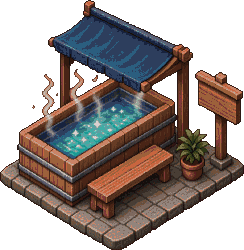
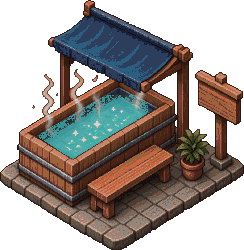
Soften shadows, fix footbath water & sitting pose, and remove in-field stream

Changed region(s): [[0.1434, 0.364, 0.6311, 0.644], [0.373, 0.532, 0.459, 0.588], [0.459, 0.588, 0.4877, 0.616]]

diff --git a/game.js b/game.js
@@ -199,24 +199,13 @@ function buildGround(){
  const W=N*TW+8,H=N*TH+40;ground=mk(W*2,H*2);const g=ground.getContext('2d');g.scale(2,2);const ox=N*TW/2+4;
  const pathMap={};S.objs.forEach(o=>{if(DEF[o.k].isPath)pathMap[o.x+','+o.y]=o.k});
  const near=new Set();for(const o of S.objs){const d=DEF[o.k],[fw,fh]=fpOf(o.k,o.rot);if(fw*fh>=4&&!d.tree&&o.k!='rocks'&&o.k!='iris'&&o.k!='floating_lanterns')for(let x=o.x-1;x<=o.x+fw;x++)for(let y=o.y-1;y<=o.y+fh;y++)near.add(x+','+y)}
- // 열린 구역 경계 계산 -> 전면(남서/남동) 외곽을 따라 흐르는 에메랄드/터콰이즈 계곡 온천천 & 목조 다리
- let minX=N,maxX=0,minY=N,maxY=0;
- for(let py=0;py<N/PS;py++)for(let px=0;px<N/PS;px++)if(plotOpen(px,py)){minX=Math.min(minX,px*PS);maxX=Math.max(maxX,(px+1)*PS-1);minY=Math.min(minY,py*PS);maxY=Math.max(maxY,(py+1)*PS-1)}
- const gi=gateInfo();
- const brgSet=new Set(),brgBank=new Set();
- if(gi){const[mx,my]=gi.m,[ox_,oy_]=gi.o;for(let s=1;s<=6;s++)for(let w=-1;w<=1;w++){const bx=mx+ox_*s+(oy_?w:0),by=my+oy_*s+(ox_?w:0);if(s>=2&&s<=5)brgSet.add(bx+','+by);else brgBank.add(bx+','+by)}}
- const isRiv=(x,y)=>{if(tileOpen(x,y))return false;const dx=minX-x,dy=y-maxY;const sw=dx>=2&&dx<=5&&y>=minY-2&&y<=maxY+5;const se=dy>=2&&dy<=5&&x>=minX-5&&x<=maxX+2;return sw||se};
- const isBank=(x,y)=>{if(tileOpen(x,y)||isRiv(x,y))return false;const dx=minX-x,dy=y-maxY;return(dx==1&&y>=minY-2&&y<=maxY+6)||(dy==1&&x>=minX-6&&x<=maxX+2)||(dx==6&&y>=minY-1&&y<=maxY+6)||(dy==6&&x>=minX-6&&x<=maxX+1)};
- const rivTiles=[];
  for(let y=0;y<N;y++)for(let x=0;x<N;x++){
   const[ix,iy]=iso(x,y);const X=ox+ix,Y=iy;
   const key=x+','+y,pk=pathMap[key],cob=!pk&&near.has(key);
-  const riv=isRiv(x,y),brg=riv&&brgSet.has(key),bnk=isBank(x,y)||brgBank.has(key);
-  const ty=pk||(brg?'path_wood':riv?'river':bnk?'bank':cob?1:0);
+  const ty=pk||(cob?1:0);
   const tmp=tileTex(ty,(x*7+y*13)%12,(x+y)%2);g.drawImage(tmp,X-TW/2,Y,TW,TH);
-  if(riv)rivTiles.push([x,y,brg?1:0]);
-  if(pk||brgBank.has(key)){ // 오토타일: 돌길·데크길의 따뜻한 크림 하이라이트 & 인디고 그림자 단차
-   const tk=pk||'path';
+  if(pk){ // 오토타일: 돌길·데크길의 따뜻한 크림 하이라이트 & 인디고 그림자 단차
+   const tk=pk;
    const T=[X,Y],R=[X+TW/2,Y+TH/2],B=[X,Y+TH],L=[X-TW/2,Y+TH/2];
    const ed={path:'#52465c',path_wood:'#3e2d40',path_gravel:'#685c6e',path_tatami:'#43522c'}[tk]||'#52465c';
    const hi={path:'#fff4c8',path_wood:'#f7cf92',path_gravel:'#faecc0',path_tatami:'#dce298'}[tk]||'#fff4c8';
@@ -226,61 +215,10 @@ function buildGround(){
     g.lineWidth=0.8;g.strokeStyle=sun?hi:ed;g.beginPath();g.moveTo(...a);g.lineTo(...b);g.stroke()}
   }
  }
- // 에메랄드/터콰이즈 강물 디테일: 호안 크림색 바위, 깊은 청록 물그림자, 수련 잎, 목조 다리 난간과 교각 그림자
- for(const[x,y,brg]of rivTiles){
-  const[ix,iy]=iso(x,y),X=ox+ix,Y=iy,r=rng(x*3137+y*997+19);
-  const upL=!isRiv(x-1,y),upR=!isRiv(x,y-1),dnL=!isRiv(x,y+1),dnR=!isRiv(x+1,y);
-  // 위쪽 강변 깊은 청록-인디고 물그림자 (#165872)
-  if(upL||upR){
-   g.fillStyle='rgba(20,76,102,0.68)';g.beginPath();
-   g.moveTo(X,Y);g.lineTo(X+TW/2,Y+TH/2);g.lineTo(X,Y+TH*0.58);g.lineTo(X-TW/2,Y+TH/2);g.closePath();g.fill();
-  }
-  // 호안 바위 단차 (햇살 받은 크림-골드 상판 #fff2c4 / #edd092 + 인디고-슬레이트 그림자 측면 #463c56)
-  const drawBankStones=(ax,ay,bx,by,sh)=>{
-   for(let i=0;i<3;i++){const t0=(i+0.15)/3,t1=(i+0.88)/3,tm=(t0+t1)/2;
-    const sx=ax+(bx-ax)*tm,sy=ay+(by-ay)*tm,sw=3.2+(i%2)*0.9,shh=1.9;
-    // 수면 반사/잠긴 그림자
-    g.fillStyle='#144e68';g.fillRect(sx-sw,sy+0.8,sw*2,2.2);
-    // 바위 그늘진 아랫면 (인디고 슬레이트)
-    g.fillStyle=sh?'#3e364e':'#4e445e';g.beginPath();g.ellipse(sx,sy+0.2,sw,shh,0,0,6.283);g.fill();
-    // 바위 햇살 받은 윗면 (버터 크림-샌드)
-    g.fillStyle=i%2?'#fae5a8':'#fff3c6';g.beginPath();g.ellipse(sx-0.3,sy-0.7,sw*0.85,shh*0.72,0,0,6.283);g.fill();
-   }
-  };
-  if(upL&&!brg)drawBankStones(X-TW/2,Y+TH/2,X,Y,false);
-  if(upR&&!brg)drawBankStones(X,Y,X+TW/2,Y+TH/2,true);
-  if(dnL&&!brg)drawBankStones(X-TW/2,Y+TH/2,X,Y+TH,true);
-  if(dnR&&!brg)drawBankStones(X,Y+TH,X+TW/2,Y+TH/2,false);
-  if(brg){
-   // 레퍼런스 이미지의 목조 다리: 물에 비친 짙은 인디고 교각·그림자 + 따뜻한 허니-오크 널빤지 + 난간
-   g.fillStyle='rgba(26,38,68,0.52)';g.beginPath();g.moveTo(X-TW*0.45,Y+TH*0.55);g.lineTo(X,Y+TH*1.08);g.lineTo(X+TW*0.45,Y+TH*0.55);g.lineTo(X,Y+TH*0.18);g.closePath();g.fill();
-   // 교각 기둥 (#28233c)
-   if((x+y)%2==0){g.fillStyle='#28233c';g.fillRect(X-TW*0.32,Y+TH*0.48,2.2,5.5);g.fillRect(X+TW*0.24,Y+TH*0.48,2.2,5.5)}
-   // 다리 상판 가장자리 햇살 림 & 난간
-   g.strokeStyle='#ffefc0';g.lineWidth=1.1;g.beginPath();g.moveTo(X-TW*0.46,Y+TH*0.46);g.lineTo(X,Y+0.4);g.lineTo(X+TW*0.46,Y+TH*0.46);g.stroke();
-  }else{
-   // 수련 잎 클러스터 (#9ad658 / #def484) & 물결 하이라이트 (#aaf2ea / #eef9c8)
-   if(r()<0.42){
-    const nP=1+(r()*3|0);
-    for(let k=0;k<nP;k++){
-     const px=X+(r()-0.5)*TW*0.46,py=Y+TH*0.25+r()*TH*0.5,ps=1.4+r()*1.2;
-     g.fillStyle='rgba(18,74,94,0.48)';g.beginPath();g.ellipse(px+0.4,py+0.6,ps,ps*0.52,0,0,6.283);g.fill();
-     g.fillStyle=k%2?'#88c84e':'#a8de62';g.beginPath();g.ellipse(px,py,ps,ps*0.5,0,0.4,6.1);g.lineTo(px,py);g.fill();
-     g.fillStyle='#def688';g.fillRect(px-ps*0.5,py-0.3,ps*0.7,0.5);
-     if(k==0&&r()<0.35){g.fillStyle='#fff5c0';g.fillRect(px-0.4,py-0.9,1.1,0.9)}
-    }
-   }
-   if(r()<0.55){
-    const rx_=X+(r()-0.5)*TW*0.4,ry_=Y+TH*0.28+r()*TH*0.44;
-    g.fillStyle=r()<0.5?'rgba(170,246,238,0.65)':'rgba(240,250,200,0.65)';
-    g.fillRect(rx_-2,ry_,3.5+r()*2.5,0.7);
-   }
-  }
- }
- window._rivTiles=rivTiles;
+ window._rivTiles=[];
  // 잔디 음영 패치: 레퍼런스 톤의 깊은 인디고-포레스트 그늘과 따뜻한 햇살 풀빛
  {const r=rng(777);g.save();g.beginPath();g.moveTo(ox,0);g.lineTo(ox+N*TW/2,N*TH/2);g.lineTo(ox,N*TH);g.lineTo(ox-N*TW/2,N*TH/2);g.clip();
-  for(let i=0;i<55;i++){const tx=r()*N,ty=r()*N;if(isRiv(tx|0,ty|0))continue;const[ix,iy]=iso(tx,ty);const R=26+r()*55;const dk=r()<0.52;const gr=g.createRadialGradient(ox+ix,iy,0,ox+ix,iy,R);gr.addColorStop(0,dk?'rgba(32,48,58,0.16)':'rgba(190,214,96,0.11)');gr.addColorStop(1,'rgba(0,0,0,0)');g.fillStyle=gr;g.save();g.translate(ox+ix,iy);g.scale(1,0.5);g.translate(-ox-ix,-iy);g.fillRect(ox+ix-R,iy-R,R*2,R*2);g.restore()}g.restore()}
+  for(let i=0;i<55;i++){const tx=r()*N,ty=r()*N;const[ix,iy]=iso(tx,ty);const R=26+r()*55;const dk=r()<0.52;const gr=g.createRadialGradient(ox+ix,iy,0,ox+ix,iy,R);gr.addColorStop(0,dk?'rgba(32,48,58,0.16)':'rgba(190,214,96,0.11)');gr.addColorStop(1,'rgba(0,0,0,0)');g.fillStyle=gr;g.save();g.translate(ox+ix,iy);g.scale(1,0.5);g.translate(-ox-ix,-iy);g.fillRect(ox+ix-R,iy-R,R*2,R*2);g.restore()}g.restore()}
  BUS.emit('groundCache',g,ox);
  groundDirty=false;
 }
@@ -452,7 +390,15 @@ const SEATS={hinoki:[[-0.36,-0.22],[0.36,0.12]],sauna:[[-0.4,-0.3],[0.38,-0.28],
  rock:[[-0.1,-0.7],[0.45,-0.5],[-0.62,-0.3],[0.05,-0.18],[0.7,0.0],[-0.5,0.22],[0.3,0.35],[-0.08,0.6]],
  milky:[[0,-0.62],[-0.3,-0.32],[0.3,-0.32],[-0.6,0],[0,-0.02],[0.6,0],[-0.3,0.3],[0.3,0.3],[0,0.6],[-0.15,0.15],[0.15,-0.17],[0.45,0.15]]};
 function capOf(o){const d=DEF[o.k];const c=d.cap+(o.lv-1)*(d.bath&&d.fp>=4?2:1);return SEATS[o.k]?Math.min(c,SEATS[o.k].length):c}
-function bathSlot(o,i){const W=wgeo(o),st=SEATS[o.k];let u,v;if(st){[u,v]=st[i%st.length];if(o.rot&1)u=-u}else{const n=capOf(o),a=(i/n)*Math.PI*2+0.6;u=Math.cos(a)*0.6;v=Math.sin(a)*0.6;if(o.rot&1)u=-u}
+const FOOT_SEATS={
+ 1:[[0.64,0.38],[0.56,0.44],[0.48,0.50],[0.40,0.56],[0.60,0.41],[0.52,0.47],[0.44,0.53],[0.36,0.59]],
+ 2:[[0.58,0.53],[0.51,0.57],[0.44,0.61],[0.37,0.65],[0.55,0.55],[0.48,0.59],[0.41,0.63],[0.34,0.67]],
+ 3:[[0.46,0.58],[0.52,0.60],[0.58,0.62],[0.64,0.64],[0.49,0.59],[0.55,0.61],[0.61,0.63],[0.43,0.57]],
+ 4:[[0.46,0.58],[0.52,0.60],[0.58,0.62],[0.64,0.64],[0.49,0.59],[0.55,0.61],[0.61,0.63],[0.43,0.57]],
+ 5:[[0.46,0.58],[0.52,0.60],[0.58,0.62],[0.64,0.64],[0.49,0.59],[0.55,0.61],[0.61,0.63],[0.43,0.57]]
+};
+function bathSlot(o,i){if(o.k=='foot'){const G=objGeom(o),lv=Math.min(5,Math.max(1,o.lv||1)),fs=FOOT_SEATS[lv];let[u,v]=fs[i%fs.length];if(o.rot&1)u=1-u;const X=G.X+(u-0.5)*G.W,Y=G.Y-G.H+v*G.H;return[(X/(TW/2)+Y/(TH/2))/2,(Y/(TH/2)-X/(TW/2))/2]}
+ const W=wgeo(o),st=SEATS[o.k];let u,v;if(st){[u,v]=st[i%st.length];if(o.rot&1)u=-u}else{const n=capOf(o),a=(i/n)*Math.PI*2+0.6;u=Math.cos(a)*0.6;v=Math.sin(a)*0.6;if(o.rot&1)u=-u}
  const sp=W.dia?0.9:0.85;const X=W.cX+u*W.rx*sp,Y=W.cY+v*W.ry*sp+2;return[(X/(TW/2)+Y/(TH/2))/2,(Y/(TH/2)-X/(TW/2))/2]}
 function bathClip(o){const W=wgeo(o);const{cX,cY,rx,ry}=W;cx.beginPath();if(W.dia){cx.moveTo(cX+rx,cY);cx.lineTo(cX,cY+ry);cx.lineTo(cX-rx,cY)}else{cx.moveTo(cX+rx,cY-1);cx.ellipse(cX,cY-1,rx,ry,0,0,Math.PI)}cx.lineTo(cX-rx,cY-40);cx.lineTo(cX+rx,cY-40);cx.lineTo(cX+rx,cY);cx.closePath();cx.clip()}
 function updGuest(g,dt){
@@ -541,11 +487,11 @@ function drawSprite(key,o,X,Y,W,lt,sv,alpha){ // X,Y: 바닥 중앙(월드), W: 
  if(v.m)cx.restore();cx.globalAlpha=1;return h}
 const WSIL={};function whiteSil(key,v){if(WSIL[key])return WSIL[key];const c=document.createElement('canvas');c.width=v.base.width;c.height=v.base.height;const g=c.getContext('2d');g.drawImage(v.base,0,0);g.globalCompositeOperation='source-in';g.fillStyle='#fff6d8';g.fillRect(0,0,c.width,c.height);return WSIL[key]=c}
 function drawShadow(key,X,Y,W,lt,sv,str){const v=VAR[key];if(!v||lt.sun<0.1)return;const h=W*v.base.height/v.base.width;if(offscreen(X,Y+h,W*2,h*2))return;
- cx.save();cx.globalAlpha=(0.42*lt.sun+0.12*(1-lt.sun))*(str||1);cx.translate(X,Y);cx.transform(1,0,-sv.kx,sv.ky,0,0);if(v.m)cx.scale(-1,1);cx.drawImage(v.sil,-W/2,-h,W,h);cx.restore()}
+ cx.save();cx.globalAlpha=(0.19*lt.sun+0.05*(1-lt.sun))*(str||1);cx.translate(X,Y);cx.transform(1,0,-sv.kx,sv.ky,0,0);if(v.m)cx.scale(-1,1);cx.drawImage(v.sil,-W/2,-h,W,h);cx.restore()}
 // ===== 블롭 스프라이트 캐시 (프레임당 그라디언트 생성 제거) =====
 let BLOB={},_bN=0;function blob(rgb){if(BLOB[rgb])return BLOB[rgb];if(++_bN>300){BLOB={};_bN=0}const c=document.createElement('canvas');c.width=c.height=64;const g=c.getContext('2d');const gr=g.createRadialGradient(32,32,0,32,32,32);gr.addColorStop(0,`rgba(${rgb},1)`);gr.addColorStop(1,`rgba(${rgb},0)`);g.fillStyle=gr;g.fillRect(0,0,64,64);return BLOB[rgb]=c}
 let _gc={},_gcN=0;function parseC(c){let v=_gc[c];if(v)return v;if(++_gcN>3000){_gc={};_gcN=0}const m=c.match(/rgba?\(([^)]+)\)/);const p=m[1].split(',').map(x=>x.trim());v=_gc[c]=[p.slice(0,3).join(','),p[3]!=null?+p[3]:1];return v}
-function ao(X,Y,rx,ry,a){const pa=cx.globalAlpha;cx.globalAlpha=pa*a*1.25;cx.drawImage(blob('28,24,52'),X-rx,Y-ry,rx*2,ry*2);cx.globalAlpha=pa;return;const g=cx.createRadialGradient(X,Y,0,X,Y,rx);g.addColorStop(0,`rgba(40,30,20,${a})`);g.addColorStop(1,'rgba(40,30,20,0)');cx.save();cx.translate(X,Y);cx.scale(1,ry/rx);cx.translate(-X,-Y);cx.fillStyle=g;cx.fillRect(X-rx,Y-rx,rx*2,rx*2);cx.restore()}
+function ao(X,Y,rx,ry,a){const pa=cx.globalAlpha;cx.globalAlpha=pa*a*0.62;cx.drawImage(blob('28,24,52'),X-rx,Y-ry,rx*2,ry*2);cx.globalAlpha=pa;return;const g=cx.createRadialGradient(X,Y,0,X,Y,rx);g.addColorStop(0,`rgba(40,30,20,${a})`);g.addColorStop(1,'rgba(40,30,20,0)');cx.save();cx.translate(X,Y);cx.scale(1,ry/rx);cx.translate(-X,-Y);cx.fillStyle=g;cx.fillRect(X-rx,Y-rx,rx*2,rx*2);cx.restore()}
 function objGeom(o){if(o.k=='gate'){const w=o.dir=='x'?3:1,h=o.dir=='x'?1:3;const[cX,cY]=iso(o.x+w/2,o.y+h/2);const sY=iso(o.x+w,o.y+h)[1];const W=(w+h)*TW/2*1.05;const v=VAR[skey(o)];const H=v?W*v.base.height/v.base.width:W;return{X:cX,Y:sY+1,cY,W,H}}
  const d=DEF[o.k],[fw,fh]=fpOf(o.k,o.rot);const[cX,cY]=iso(o.x+fw/2,o.y+fh/2);const sY=iso(o.x+fw,o.y+fh)[1];const W=(fw+fh)*TW/2*(d.sc||1);const v=VAR[skey(o)];const H=v?W*v.base.height/v.base.width:W;return{X:cX,Y:sY+(fw==1&&fh==1?-1:0.5),cY,W,H}}
 function render(t){
@@ -592,7 +538,7 @@ function render(t){
   if(it.part=='pondrim'){if(window.drawPondRim)drawPondRim(it.o);continue}if(it.part){const o=it.o,G=objGeom(o);drawSprite(skey(o)+'_'+it.part,o,G.X,G.Y,G.W,lt,sv,1)}
   else if(it.o){const o=it.o,d=DEF[o.k],G=objGeom(o);const an=anims['o'+S.objs.indexOf(o)];const pop=an?Math.min(1,an.t*3):1;
    const Wp=G.W*(0.7+0.3*easeOut(pop));const fade=hidden.has(o)&&!d.bath&&(d.fp>1||(d.fph||1)>1)&&!window.READONLY&&!document.body.classList.contains('zen');const sw_=(d.tree||d.flutter)?(Math.sin(t/1100+o.x*1.7+o.y)*0.018+(window.WIND||0)*0.025+(o.sway||0)*Math.sin(t/110)*0.25):0;if(sw_){cx.save();cx.translate(G.X,G.Y);cx.transform(1,0,-sw_,1,0,0);cx.translate(-G.X,-G.Y)}drawSprite(skey(o),o,G.X,G.Y,Wp,lt,sv,pop*(fade?0.5:1));if(sw_)cx.restore();
-   if(d.bath){drawWater(o,G,t,lt);cx.save();bathClip(o);guests.filter(g=>g.inBath&&g.cur===o).sort((a,b)=>a.x+a.y-b.x-b.y).forEach(g=>drawGuest(g,t,lt,sv));cx.restore();const ov=skey(o)+'_over';if(VAR[ov]&&guests.some(g=>g.inBath&&g.cur===o))drawSprite(ov,o,G.X,G.Y,Wp,lt,sv,pop)}
+   if(d.bath){drawWater(o,G,t,lt);cx.save();if(o.k!='foot')bathClip(o);guests.filter(g=>g.inBath&&g.cur===o).sort((a,b)=>a.x+a.y-b.x-b.y).forEach(g=>drawGuest(g,t,lt,sv));cx.restore();const ov=skey(o)+'_over';if(VAR[ov]&&guests.some(g=>g.inBath&&g.cur===o))drawSprite(ov,o,G.X,G.Y,Wp,lt,sv,pop)}
    if(o.lv>1){for(let i=0;i<o.lv-1;i++){cx.fillStyle='#f6cf5a';cx.fillRect(G.X-8+i*4,G.Y+1,3,3)}}}
   else drawGuest(it.g,t,lt,sv);}
  // 대문 지붕·노렌 (항상 손님 위) + 노렌 흔들림
@@ -733,48 +679,52 @@ function drawMilky(W,t,lt){const{cX,cY,rx,ry}=W;const sk=lt.sky,n=lt.night,su=lt
  cx.strokeStyle=`rgba(80,70,60,${0.28-0.1*n})`;cx.lineWidth=2.2;cx.beginPath();cx.moveTo(cX-rx,cY);cx.lineTo(cX,cY-ry);cx.lineTo(cX+rx,cY);cx.stroke();
  cx.strokeStyle='rgba(255,255,255,0.35)';cx.lineWidth=0.7;cx.beginPath();cx.moveTo(cX-rx+3,cY+1);cx.lineTo(cX,cY-ry+2.2);cx.lineTo(cX+rx-3,cY+1);cx.stroke();
 }
-function drawWater_(o,G,t,lt){const W=wgeo(o);const{d,f,cX,cY,rx,ry}=W;
- cx.save();wpath(W);cx.clip();
- if(W.dia){drawMilky(W,t,lt)}
- else if(o.k=='wine'){
-  const wg=cx.createLinearGradient(cX,cY-ry,cX,cY+ry);
-  wg.addColorStop(0,'rgba(88,16,42,0.78)');wg.addColorStop(0.55,'rgba(148,28,64,0.72)');wg.addColorStop(1,'rgba(186,48,86,0.70)');
-  cx.fillStyle=wg;cx.fillRect(cX-rx,cY-ry,rx*2,ry*2);
- }else{
-  // 레퍼런스 이미지의 투명하고 선명한 터콰이즈-시안 온천수 (#187a94 -> #28b9cc -> #4edae6)
-  const wg=cx.createLinearGradient(cX,cY-ry,cX,cY+ry);
-  wg.addColorStop(0,'rgba(22,116,142,0.76)');
-  wg.addColorStop(0.5,'rgba(40,185,204,0.72)');
-  wg.addColorStop(1,'rgba(76,218,230,0.70)');
-  cx.fillStyle=wg;cx.fillRect(cX-rx,cY-ry,rx*2,ry*2);
-  // 위쪽 바위 턱 아래 깊은 인디고-틸 수중 그림자 (#14485e)
-  const sg=cx.createLinearGradient(cX,cY-ry,cX,cY-ry*0.2);
-  sg.addColorStop(0,'rgba(18,64,86,0.58)');sg.addColorStop(1,'rgba(18,64,86,0)');
-  cx.fillStyle=sg;cx.fillRect(cX-rx,cY-ry,rx*2,ry);
- }
- // 선명한 크림-민트 물결 하이라이트 띠
- for(let i=0;i<4;i++){const y=cY-ry+((t/90+i*ry*0.6)%(ry*2.4));cx.fillStyle=o.k=='wine'?`rgba(255,190,210,${0.18+0.10*lt.sun})`:`rgba(190,252,244,${0.22+0.12*lt.sun})`;cx.fillRect(cX-rx*0.8,y,rx*1.6,0.65)}
- // 스펙큘러 반짝임
- const r=rng(Math.floor(t/220)+o.x*31);for(let i=0;i<10;i++){const a=r()*6.28,rr=Math.sqrt(r());cx.fillStyle=`rgba(245,255,215,${0.6+0.4*lt.sun})`;cx.fillRect(cX+Math.cos(a)*rx*rr,cY+Math.sin(a)*ry*rr,1.2,0.7)}
- if(lt.night>0.4){cx.globalCompositeOperation='screen';cx.fillStyle=`rgba(255,200,120,${0.12*lt.night})`;cx.fillRect(cX-rx,cY-ry,rx*2,ry*2)}
+function drawWater_(o,G,t,lt){if(o.k=='foot')return;const W=wgeo(o);const{d,f,cX,cY,rx,ry}=W;
+ const irx=rx*0.72,iry=ry*0.72;
+ cx.save();cx.beginPath();cx.ellipse(cX,cY-1,irx,iry,0,0,6.283);cx.clip();
+ // 스프라이트 자체 픽셀아트 수면을 가리지 않도록 불투명 원형 그라디언트는 생략하고 은은한 물비늘·반짝임만 추가
+ cx.globalCompositeOperation='screen';
+ for(let i=0;i<3;i++){const y=cY-iry+((t/95+i*iry*0.65)%(iry*2.2));cx.fillStyle=o.k=='wine'?`rgba(255,190,210,${0.10+0.06*lt.sun})`:`rgba(195,252,246,${0.11+0.07*lt.sun})`;cx.fillRect(cX-irx*0.7,y,irx*1.4,0.6)}
+ const r=rng(Math.floor(t/240)+o.x*31);for(let i=0;i<7;i++){const a=r()*6.28,rr=Math.sqrt(r())*0.85;cx.fillStyle=`rgba(248,255,225,${0.45+0.35*lt.sun})`;cx.fillRect(cX+Math.cos(a)*irx*rr,cY+Math.sin(a)*iry*rr,1.1,0.65)}
  cx.globalCompositeOperation='source-over';cx.restore()}
 const SUNT={};function sunTex(left,sun,ar){const k=left+'|'+sun+'|'+ar.toFixed(2);if(SUNT.k===k)return SUNT.c;const H=180,W=Math.round(H*ar),c=SUNT.c||document.createElement('canvas');c.width=W;c.height=H;const g=c.getContext('2d');const gr=g.createRadialGradient(left?W*0.05:W*0.95,-H*0.15,0,left?W*0.05:W*0.95,-H*0.15,H*0.55);gr.addColorStop(0,`rgba(255,240,195,${0.08*sun})`);gr.addColorStop(1,'rgba(255,240,195,0)');g.fillStyle=gr;g.fillRect(0,0,W,H);SUNT.k=k;SUNT.c=c;return c}
-const WC={};function drawWater(o,G,t,lt){const W=wgeo(o);const{d,f,cX,cY,rx,ry}=W;
- if(window.GFX_LOW||window.__nowc){cx.save();drawWater_(o,G,t,lt);wpath(W);cx.clip();BUS.emit('water',o,cX,cY,rx,ry,t,lt);cx.restore();return}
+const WC={};function drawWater(o,G,t,lt){if(o.k=='foot')return;const W=wgeo(o);const{d,f,cX,cY,rx,ry}=W;
+ if(window.GFX_LOW||window.__nowc){cx.save();drawWater_(o,G,t,lt);cx.beginPath();cx.ellipse(cX,cY-1,rx*0.72,ry*0.72,0,0,6.283);cx.clip();BUS.emit('water',o,cX,cY,rx*0.72,ry*0.72,t,lt);cx.restore();return}
  const m=cx.getTransform(),sc=m.a;const per=ry*2.4*90,FR=32,fi=Math.floor((t%per)/per*FR);const sk_=skey(o);const lk=sk_+'|'+sc.toFixed(2)+'|'+Math.round(lt.sun*12)+'|'+Math.round(lt.night*12)+'|'+lt.sky.map(v=>v>>3).join(',');
  let c=WC[sk_];if(!c||c.lk!==lk){c=WC[sk_]={lk,fr:[]}}
  let im=c.fr[fi];if(!im){const pw=Math.ceil((rx*2+4)*sc),ph=Math.ceil((ry*2+4)*sc);im=document.createElement('canvas');im.width=pw;im.height=ph;const ocx=cx;cx=im.getContext('2d');
   const fo={...o,x:-f/2,y:-f/2};const Wf=wgeo(fo);cx.setTransform(sc,0,0,sc,(rx+2-Wf.cX)*sc,(ry+3-Wf.cY)*sc);const sI=iso;try{const tt=fi/FR*per+Math.floor(t/per)*0;drawWater_(fo,G,tt,lt)}finally{cx=ocx}c.fr[fi]=im}
- cx.drawImage(im,cX-rx-2,cY-ry-3,rx*2+4,ry*2+4);cx.save();wpath(W);cx.clip();BUS.emit('water',o,cX,cY,rx,ry,t,lt);cx.restore()}
-function drawGuest(g,t,lt,sv){const[X,Y]=iso(g.x,g.y);if(g.vip||g.reg){cx.save();cx.globalCompositeOperation='lighter';cx.globalAlpha=g.vip?0.35:0.28;cx.drawImage(blob(g.vip?'255,215,90':'140,200,255'),X-12,Y-18,24,24);cx.globalAlpha=1;cx.restore()}
+ cx.drawImage(im,cX-rx-2,cY-ry-3,rx*2+4,ry*2+4);cx.save();cx.beginPath();cx.ellipse(cX,cY-1,rx*0.72,ry*0.72,0,0,6.283);cx.clip();BUS.emit('water',o,cX,cY,rx*0.72,ry*0.72,t,lt);cx.restore()}
+function drawGuest(g,t,lt,sv){if(g.inBath&&g.cur&&g.cur.k=='foot'){
+  const o=g.cur;[g.x,g.y]=bathSlot(o,g.slot||0);const[X,Y]=iso(g.x,g.y);
+  if(g.vip||g.reg){cx.save();cx.globalCompositeOperation='lighter';cx.globalAlpha=g.vip?0.35:0.28;cx.drawImage(blob(g.vip?'255,215,90':'140,200,255'),X-12,Y-18,24,24);cx.globalAlpha=1;cx.restore()}
+  const v=VAR[g.spr];if(!v)return;
+  const lv=o.lv||1,dir=(lv<=2)?((o.rot&1)?1:-1):((o.rot&1)?1:-1);
+  const W=13,h=W*v.base.height/v.base.width*0.85,bob=Math.sin(t/520+g.bob)*0.35-(g.hz||0)*0.4;
+  const fx=X+dir*2.4,fy=Y-0.6+bob*0.4;
+  ao(X-dir*1.2,Y-1.2,4.2,1.8,0.20);
+  cx.save();cx.translate(X,Y-bob);cx.scale(dir,1);
+  cx.drawImage(v.base,-W/2,-h,W,h);
+  if(lt.sun>0.15){cx.globalAlpha=0.38*lt.sun;cx.drawImage(sv.left?v.rimL:v.rimR,-W/2,-h,W,h);cx.globalAlpha=1}
+  if(g.slot%3==1){cx.fillStyle='#f6c431';cx.beginPath();cx.arc(0.5,-h+1.2,1.6,0,6.283);cx.fill();cx.fillStyle='#58a832';cx.fillRect(0.2,-h-0.6,0.9,0.7)}
+  else{cx.fillStyle='#faf6ec';cx.fillRect(-2.4,-h+0.4,4.8,1.6);cx.fillStyle='#d8cbb8';cx.fillRect(-2.4,-h+1.6,4.8,0.5)}
+  cx.restore();
+  const ph=((t/750+g.bob)%1);
+  cx.strokeStyle=`rgba(205,252,255,${0.62*(1-ph*0.5)})`;cx.lineWidth=0.65;
+  cx.beginPath();cx.ellipse(fx,fy,3.2+ph*2.2,1.3+ph*0.9,0,0,6.283);cx.stroke();
+  cx.fillStyle='rgba(235,255,255,0.78)';
+  const kick=Math.sin(t/240+g.bob*2.1);
+  if(kick>0.2){cx.fillRect(fx+dir*1.8,fy-1.6-kick*1.4,0.9,0.9);cx.fillRect(fx-dir*0.8,fy-1.2-kick*1.0,0.7,0.7)}
+  return}
+ const[X,Y]=iso(g.x,g.y);if(g.vip||g.reg){cx.save();cx.globalCompositeOperation='lighter';cx.globalAlpha=g.vip?0.35:0.28;cx.drawImage(blob(g.vip?'255,215,90':'140,200,255'),X-12,Y-18,24,24);cx.globalAlpha=1;cx.restore()}
  if(g.inBath){const v=VAR[g.cb];if(!v)return;const W=17,h=W*v.base.height/v.base.width,bob=Math.sin(t/600+g.bob)*0.4-(g.hz||0)*0.5,ch=h*0.8;
   cx.drawImage(v.base,0,0,v.base.width,v.base.height*0.8,X-W/2,Y-ch+2+bob,W,ch);
   cx.fillStyle='rgba(180,240,240,0.55)';cx.beginPath();cx.ellipse(X,Y+2+bob,W*0.55,1.6,0,0,6.283);cx.fill();
   if(g.slot%3==1){const yx=X+W*0.7,yy=Y+2+Math.sin(t/700+g.bob)*0.6;cx.fillStyle='#f6c431';cx.beginPath();cx.arc(yx,yy,1.6,0,6.283);cx.fill();cx.fillStyle='#fff3a0';cx.fillRect(yx-0.8,yy-1,0.8,0.6)}
   return}
  const v=VAR[g.spr];if(!v)return;const W=14,h=W*v.base.height/v.base.width;const moving=Math.hypot(g.tx-g.x,g.ty-g.y)>0.05;const bob=(moving?Math.abs(Math.sin(t/120+g.bob))*1.2:0)+(g.z||0)+(g.hz||0);
- cx.globalAlpha=g.fade;ao(X,Y,5,2.2,0.35);
- if(lt.sun>0.1){cx.save();cx.globalAlpha=0.25*lt.sun*g.fade;cx.translate(X,Y);cx.transform(1,0,-sv.kx,sv.ky,0,0);if(v.m)cx.scale(-1,1);cx.drawImage(v.sil,-W/2,-h,W,h);cx.restore()}
+ cx.globalAlpha=g.fade;ao(X,Y,5,2.2,0.22);
+ if(lt.sun>0.1){cx.save();cx.globalAlpha=0.15*lt.sun*g.fade;cx.translate(X,Y);cx.transform(1,0,-sv.kx,sv.ky,0,0);if(v.m)cx.scale(-1,1);cx.drawImage(v.sil,-W/2,-h,W,h);cx.restore()}
  cx.globalAlpha=g.fade;cx.save();cx.translate(X,Y-bob);cx.scale(g.dir,1);cx.drawImage(v.base,-W/2,-h,W,h);if(lt.sun>0.15){cx.globalAlpha=0.45*lt.sun*g.fade;cx.drawImage(sv.left?v.rimL:v.rimR,-W/2,-h,W,h)}cx.restore();cx.globalAlpha=1}
 // 잠긴 구역: 안개, 로프 울타리, 가격 표지판
 function drawPlots(t,lt){const P=N/PS;window._signs=[];

diff --git a/ambient.js b/ambient.js
@@ -110,18 +110,7 @@ const AMB=(()=>{
    else{g.soak=0;if(!g.leaving&&R()<dt*0.01)fx.push({k:'yawn',g,l:1.4,L:1.4})}}
   if(fx.length>60)fx.splice(0,fx.length-60)}
  BUS.on('ground',(t,lt)=>{drawTufts(t,lt);
-  if(window._rivTiles&&!window.GFX_LOW){
-   const x0=-cam.x/cam.z-24,x1=(VW-cam.x)/cam.z+24,y0=-cam.y/cam.z-24,y1=(VH-cam.y)/cam.z+24;
-   for(let i=0;i<window._rivTiles.length;i++){const[rx,ry,brg]=window._rivTiles[i];if(brg)continue;
-    const[X,Y]=iso(rx+0.5,ry+0.5);if(X<x0||X>x1||Y<y0||Y>y1)continue;
-    const ph=t/520+rx*1.7+ry*2.3,v=Math.sin(ph);
-    if(v>0.45){
-     const dx=Math.sin(t/900+i)*4,dy=Math.cos(t/1100+i)*2;
-     cx.fillStyle=i%3==0?`rgba(244,254,204,${(v-0.4)*1.1*(0.4+0.6*lt.sun)})`:`rgba(164,248,240,${(v-0.4)*(0.45+0.55*lt.sun)})`;
-     cx.fillRect(X+dx-2,Y+dy,3.6,0.75);
-    }
-   }
-  }
+
   for(const o of S.objs)if(DEF[o.k].pond)drawPond(o,t,lt);
   if(ghost=='pond'&&hoverT)drawPond({x:hoverT[0],y:hoverT[1],rot:moving?moving.rot:ROT},t,lt,0.6)});
  BUS.on('over',(t,lt,sv)=>{
@@ -139,7 +128,7 @@ const AMB=(()=>{
    else if(e.k=='spark'){const[X,Y]=iso(e.x,e.y);const k=1-e.l/e.L;cx.fillStyle=`rgba(255,246,200,${a})`;for(let i=0;i<6;i++){const an=i/6*6.28+k;const r=4+k*9;cx.fillRect(X+Math.cos(an)*r-0.6,Y-e.h+Math.sin(an)*r*0.6-0.6,1.2,1.2)}}
    else if(e.k=='ring'){const[X,Y]=iso(e.x,e.y);const k=1-e.l/e.L;cx.strokeStyle=`rgba(255,255,255,${a*0.8})`;cx.lineWidth=0.7;cx.beginPath();cx.ellipse(X,Y,3+k*12,1.5+k*6,0,0,6.283);cx.stroke()}}
   // 구름 그림자
-  if(lt.sun>0.15&&!window.GFX_LOW){cx.save();cx.globalCompositeOperation='multiply';cx.globalAlpha=0.16*lt.sun;const T=t/1000;
+  if(lt.sun>0.15&&!window.GFX_LOW){cx.save();cx.globalCompositeOperation='multiply';cx.globalAlpha=0.10*lt.sun;const T=t/1000;
    for(let i=0;i<5;i++){const wx=((T*(6+wind*4)+i*380)%2200)-500,wy=-200+i*170+Math.sin(T/40+i)*60;const s=160+i%3*70;cx.drawImage(B_SH,wx-s,wy-s*0.5,s*2,s);cx.drawImage(B_SH,wx-s*0.3,wy-s*0.6,s*1.4,s*0.8)}cx.restore()}
  });
  BUS.on('screen',(t,lt)=>{const z=cam.z;
